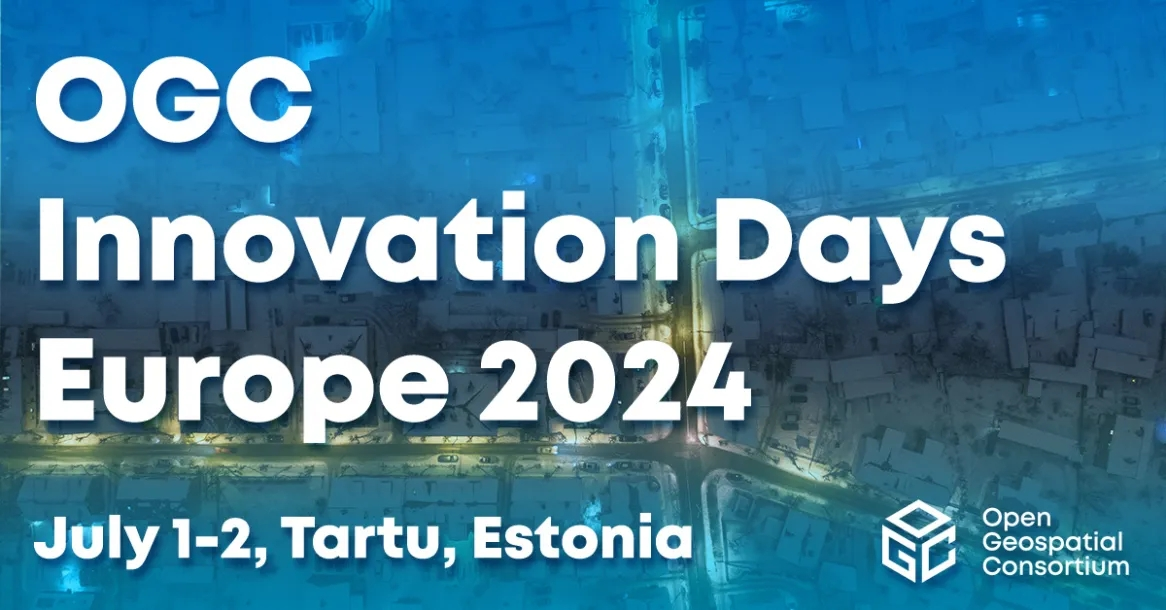
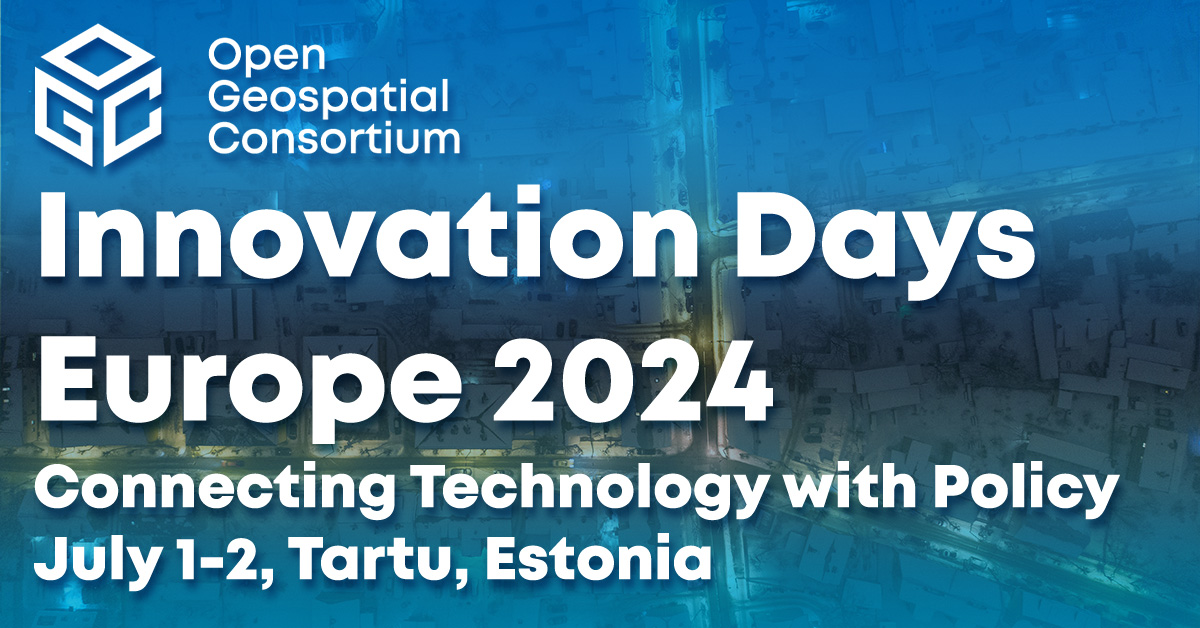
ogc updates

Changed region(s): [[0.0309, 0.2803, 0.988, 0.9967], [0.0309, 0.0311, 0.4014, 0.2803], [0.988, 0.6852, 1.0, 0.7164]]

diff --git a/content/schedule/ogc-euidays.md b/content/schedule/ogc-euidays.md
@@ -37,26 +37,9 @@ View the [preliminary agenda below](#agenda).
 **Co-organized with [FOSS4G Europe: 1-7 July,
 2024](https://2024.europe.foss4g.org/).**
 
-The European IT landscape is changing rapidly. Several initiatives are
-underway, such as developing Data Spaces and Digital Twins, supporting
-the Green Deal, or otherwise trying to integrate the largely
-heterogeneous IT landscape. What do these mean for the leading
-challenges of our century? How can these predominantly technologically
-oriented efforts help with climate change and disaster resilience? Do
-they support Land Degradation Neutrality?
+OGC Innovation Days Europe seeks to address stakeholders’ and policymakers’ need for digital solutions that can meet their requirements efficiently and in a user-friendly way. To this end, the event will bring internationally leading software development and data management experts together with non-technical experts – such as urban planners, policy makers, economists, and other beneficiaries of geospatial information – to exchange information and learn from each other. The stakeholders’ needs will be discussed and understood in depth while newly developed prototypes will be presented.
 
-The OGC Innovation Days Europe connects the technological aspects with
-the equally important aspects of governance and policy and thus fills a
-critical gap: **The event provides a platform to discuss how the current
-technical efforts can be combined with the necessary governance and
-policy aspects.** What decision processes do we need? What agreements
-are required for efficient decision processes or homogeneous reporting
-models, for example, for climate change or Land Degradation Neutrality? 
-
-OGC Innovation Days Europe addresses the requirements of multiple
-stakeholders and policymakers for digital solutions that meet various
-needs efficiently and in a user-friendly way. OGC co-organizes the
-Innovation Days with the
+OGC is co-organizing Innovation Days Europe with the
 **{{<
     extlink href="https://www.geosa.gov.sa/En"
     title="General Authority for Survey and Geospatial Information (GEOSA, Saudi Arabia)"
@@ -64,30 +47,14 @@ Innovation Days with the
     rel="noopener noreferrer"
 >}}**
 and [**FOSS4G Europe 2024**](https://2024.europe.foss4g.org/).
-The event brings the internationally leading
-software development and data management experts together with
-non-technical experts to exchange information and learn from each other.
-The Stakeholders' needs will be discussed and understood in depth while
-newly developed prototypes will be presented and trained.
+
+**OGC Innovation Days Europe provides a platform to discuss how current technical efforts can be combined effectively with the necessary governance and policy aspects.** What decision processes do we need? What agreements are required for efficient decision processes or homogeneous reporting models for, for example, Climate Change or Land Degradation Neutrality?
 
 ##### Thematic focus: Climate and Disaster Resilience, One Health, and Global Stocktake
 
-Achieving climate and disaster resilience and sustainability requires
-reliable location information on the environment, land, and climate.
-Generating this information dedicated to the users' needs is
-challenging. It needs highly optimized spatial data infrastructures and
-climate resilience information systems operated within a targeted policy
-framework and driven by an efficient policy model. Interoperable data
-pipelines and well-organized data spaces with their data assessment
-applications, combined with analysis, visualization, and reporting
-tools, are required to gain the knowledge to enroll climate strategies
-and actions.
+Achieving climate and disaster resilience and sustainability requires reliable location information on the environment, land, and climate. Generating this information dedicated to the users’ needs is challenging. It needs highly optimized spatial data infrastructures and climate resilience information systems operated within a targeted policy framework and driven by an efficient policy model. Interoperable data pipelines and well-organized data spaces with their data assessment applications, combined with analysis, visualization, and reporting tools, are required to gain the knowledge to enroll climate strategies and actions.
 
-With the thematic focus on land and climate, the OGC European Innovation
-Days will foster dialogue between technical experts, decision-makers,
-and policy experts. Particular emphasis is on public health, land
-degradation neutrality, global stocktake, the role of data spaces, and
-the need for modernized data exchange and analysis environments: 
+OGC Innovation Days Europe will foster a dialogue between technical experts, decision-makers, and policy experts, with a focus on one health, land degradation neutrality, the role of data spaces, and the need for modernized knowledge exchange and analysis environments:
 
 -   The public increasingly requires a collaborative, multi-sectoral,
     and transdisciplinary local-to-global perspective. The
@@ -132,16 +99,7 @@ refine the identified requirements for the dataspaces to enhance the
 information and knowledge exchange on scientific, technical, and policy
 levels. 
 
-The OGC Innovation Days results will help make future systems more
-efficient. The event contributes to shifting the focus from a
-technology-oriented approach to a holistic approach. This approach takes
-a much better account of the various needs of the stakeholders involved.
-Focusing on the needs of the different stakeholders is crucial to the
-success of the current work. This event will identify these needs and
-thus make an essential contribution to improving the direction of future
-technological developments, operational setups driven by efficient
-governance models, and all operating within a solution-oriented policy
-framework.
+OGC Innovation Days Europe supports the shift in IT solutions from being purely technology-oriented to a more holistic approach that better accounts for the various needs of the stakeholders. The event will identify these needs and thus make an essential contribution to improving the direction of future technological developments, supporting operational setups that are driven by efficient governance models and that operate within a solution-oriented policy framework.
 
 <a name="agenda"></a>
 **Preliminary Agenda**:
